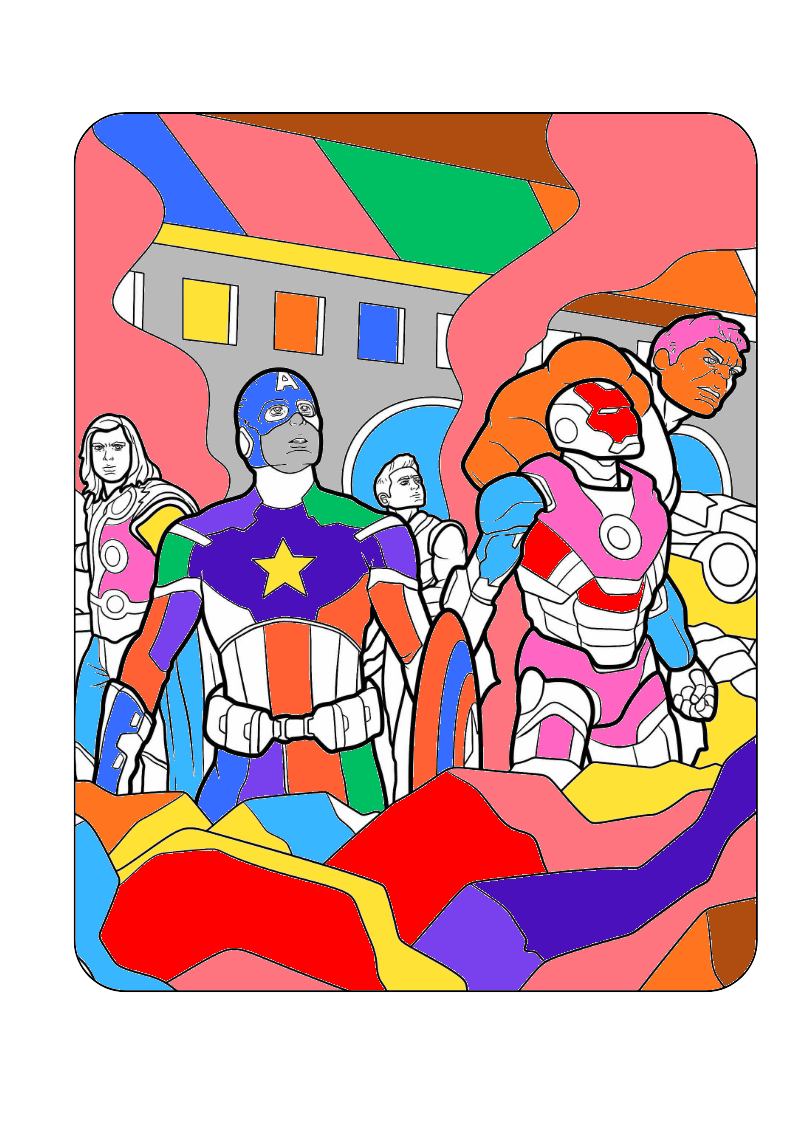
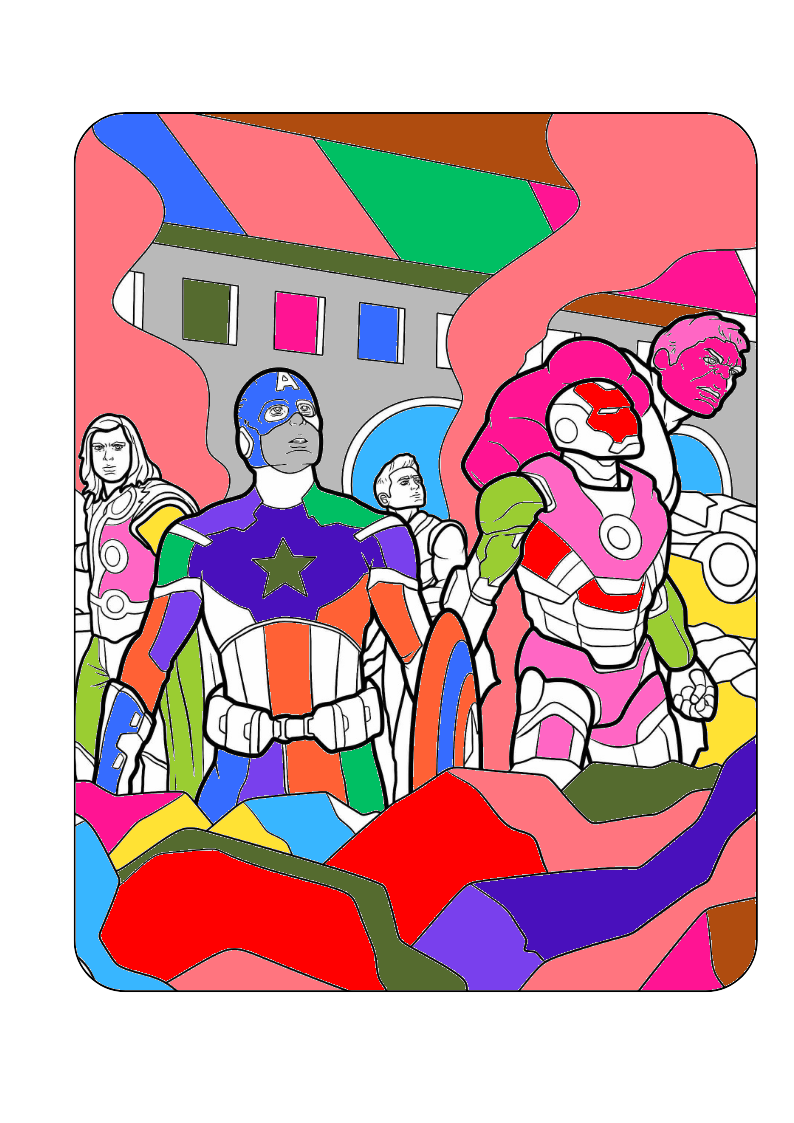
bug fix

diff --git a/frontend/src/data/lessons/multiplication.ts b/frontend/src/data/lessons/multiplication.ts
@@ -50,12 +50,8 @@ export const multiplicationLessons: MultiplicationLesson[] = [
       { color: "#00bf63", label: "4" },
       { color: "#ffde59", label: "5" },
       { color: "#ff6d4d", label: "6" },
-      { color: "#fbe2c1", label: "7" },
       { color: "#8f1eae", label: "8" },
       { color: "#4910bc", label: "10" },
-      { color: "#9eff1f", label: "12" },
-      { color: "#3fbffe", label: "14" },
-      { color: "#ff3131", label: "16" },
     ],
   },
   {
@@ -87,7 +83,6 @@ export const multiplicationLessons: MultiplicationLesson[] = [
     helpImage: `${CDN_AUTO}/${M}/page_12_help.png`,
     tableImage: `${CDN_AUTO}/${M}/2.png`,
     palette: [
-      { color: "#3fbfff", label: "1" },
       { color: "#af4c0f", label: "2" },
       { color: "#ff66c4", label: "3" },
       { color: "#00bf63", label: "4, 9" },
@@ -132,17 +127,11 @@ export const multiplicationLessons: MultiplicationLesson[] = [
       { color: "#f3ce00", label: "1" },
       { color: "#ff751f", label: "3" },
       { color: "#3fbfff", label: "4" },
-      { color: "#ff3132", label: "5" },
       { color: "#b174e7", label: "6" },
-      { color: "#00bf63", label: "7" },
-      { color: "#7ed957", label: "8" },
       { color: "#ff3131", label: "9" },
       { color: "#004aad", label: "12" },
       { color: "#684530", label: "15" },
-      { color: "#ff3133", label: "16" },
       { color: "#ff66c4", label: "18" },
-      { color: "#fff3c2", label: "21" },
-      { color: "#95928d", label: "24" },
     ],
   },
   {
@@ -268,9 +257,6 @@ export const multiplicationLessons: MultiplicationLesson[] = [
       { color: "#bfbfbf", label: "16" },
       { color: "#004aad", label: "20" },
       { color: "#8c52ff", label: "24" },
-      { color: "#ff66c4", label: "28" },
-      { color: "#ff751f", label: "32" },
-      { color: "#eb0000", label: "36" },
     ],
   },
   {
@@ -493,17 +479,11 @@ export const multiplicationLessons: MultiplicationLesson[] = [
     tableImage: `${CDN_AUTO}/${M}/6.png`,
     palette: [
       { color: "#fff3c2", label: "12" },
-      { color: "#9eff1f", label: "14" },
       { color: "#38b6ff", label: "18" },
       { color: "#7940ed", label: "24" },
-      { color: "#ff66c4", label: "25" },
-      { color: "#4910bc", label: "28" },
       { color: "#00bf63", label: "30" },
-      { color: "#ff0000", label: "32" },
       { color: "#ffe236", label: "36" },
-      { color: "#ff751f", label: "40" },
       { color: "#366cff", label: "42" },
-      { color: "#af4c0f", label: "45" },
       { color: "#462c7a", label: "48" },
       { color: "#a13ed4", label: "54" },
     ],
@@ -536,15 +516,10 @@ export const multiplicationLessons: MultiplicationLesson[] = [
     helpImage: `${CDN_AUTO}/${M}/page_12_help.png`,
     tableImage: `${CDN_AUTO}/${M}/7.png`,
     palette: [
-      { color: "#fff3c2", label: "12" },
       { color: "#9eff1f", label: "14" },
       { color: "#38b6ff", label: "15" },
-      { color: "#38b6fe", label: "16" },
       { color: "#7940ed", label: "21" },
-      { color: "#ff66c4", label: "25" },
       { color: "#4910bc", label: "28" },
-      { color: "#00bf63", label: "30" },
-      { color: "#ff0000", label: "32" },
       { color: "#ffe236", label: "35" },
       { color: "#ff751f", label: "42" },
       { color: "#af4c0f", label: "49" },
@@ -619,7 +594,7 @@ export const multiplicationLessons: MultiplicationLesson[] = [
     palette: [
       { color: "#b9b9b9", label: "12" },
       { color: "#38b6ff", label: "14" },
-      { color: "#38b6fe", label: "18" },
+      { color: "#9acd32", label: "18" },
       { color: "#366cff", label: "21" },
       { color: "#4910bc", label: "24" },
       { color: "#7940ed", label: "28" },
@@ -628,10 +603,10 @@ export const multiplicationLessons: MultiplicationLesson[] = [
       { color: "#ffe234", label: "36" },
       { color: "#ff757f", label: "42" },
       { color: "#ff6135", label: "48" },
-      { color: "#ffe236", label: "49" },
+      { color: "#556b2f", label: "49" },
       { color: "#af4c0f", label: "54" },
       { color: "#ff0000", label: "56" },
-      { color: "#ff751f", label: "63" },
+      { color: "#ff1493", label: "63" },
     ],
   },
 ];

diff --git a/frontend/src/components/coloring/core/completionChecker.ts b/frontend/src/components/coloring/core/completionChecker.ts
@@ -1,4 +1,4 @@
-import { hexToRgb, rgbToHex, colorsMatch, createColorSet } from "./colorUtils";
+import { hexToRgb, rgbToHex, createColorSet } from "./colorUtils";
 import type { CompletionResult } from "./types";
 
 export interface CheckCompletionOptions {
@@ -6,7 +6,6 @@ export interface CheckCompletionOptions {
   maskData: ImageData;
   palette: string[];
   fillThreshold?: number;
-  colorTolerance?: number;
 }
 
 /**
@@ -17,7 +16,6 @@ export function checkCompletion({
   maskData,
   palette,
   fillThreshold = 0.8,
-  colorTolerance = 30,
 }: CheckCompletionOptions): CompletionResult {
   const ctx = canvas.getContext("2d", { willReadFrequently: true });
   if (!ctx) {
@@ -29,6 +27,42 @@ export function checkCompletion({
   const maskPixels = maskData.data;
 
   const allowedColorsSet = createColorSet(palette);
+
+  // Canonical colors = palette + white + black. A painted canvas pixel counts
+  // toward a required color only when its NEAREST canonical color is exactly
+  // that color. This mirrors the flood-fill matcher and is stricter than a
+  // fixed RGB tolerance: a region painted with a *different* palette color
+  // (even a near-identical one) no longer satisfies its neighbour's
+  // requirement, and unpainted white / black-outline pixels resolve to
+  // white / black instead of being mistaken for an answer color.
+  const canonical: Array<{ hex: string; r: number; g: number; b: number }> = [
+    ...palette.map((hex) => {
+      const { r, g, b } = hexToRgb(hex);
+      return { hex: hex.toLowerCase(), r, g, b };
+    }),
+    { hex: "#ffffff", r: 255, g: 255, b: 255 },
+    { hex: "#000000", r: 0, g: 0, b: 0 },
+  ];
+  const nearestCache = new Map<number, string>();
+  const nearestCanonical = (r: number, g: number, b: number): string => {
+    const key = (r << 16) | (g << 8) | b;
+    const cached = nearestCache.get(key);
+    if (cached !== undefined) return cached;
+    let bestHex = canonical[0]?.hex ?? "#ffffff";
+    let bestDist = Infinity;
+    for (const c of canonical) {
+      const dr = c.r - r;
+      const dg = c.g - g;
+      const db = c.b - b;
+      const dist = dr * dr + dg * dg + db * db;
+      if (dist < bestDist) {
+        bestDist = dist;
+        bestHex = c.hex;
+      }
+    }
+    nearestCache.set(key, bestHex);
+    return bestHex;
+  };
 
   // Find required colors from mask (excluding white)
   const requiredColors = new Set<string>();
@@ -57,19 +91,17 @@ export function checkCompletion({
     const pixels = colorPixels.get(requiredColor);
     if (!pixels) return;
 
-    const { r: reqR, g: reqG, b: reqB } = hexToRgb(requiredColor);
-
     let filledCount = 0;
     let totalCount = 0;
 
     pixels.forEach((pos) => {
       totalCount++;
-      const canvasR = canvasPixels[pos];
-      const canvasG = canvasPixels[pos + 1];
-      const canvasB = canvasPixels[pos + 2];
-
       if (
-        colorsMatch(canvasR, canvasG, canvasB, reqR, reqG, reqB, colorTolerance)
+        nearestCanonical(
+          canvasPixels[pos],
+          canvasPixels[pos + 1],
+          canvasPixels[pos + 2],
+        ) === requiredColor
       ) {
         filledCount++;
       }

diff --git a/frontend/src/features/LessonMultPage.tsx b/frontend/src/features/LessonMultPage.tsx
@@ -333,6 +333,10 @@ export default function LessonMultPage() {
         "#ffe234": "Шар",
         "#ff757f": "Ягаан",
         "#ff6135": "Улбар шар",
+        // page-15 recolored answers (18, 49, 63) — distinct from their near-twins
+        "#9acd32": "Цайвар ногоон",
+        "#556b2f": "Хар ногоон",
+        "#ff1493": "Час ягаан",
       };
 
       const missingColorNames = missingColors
